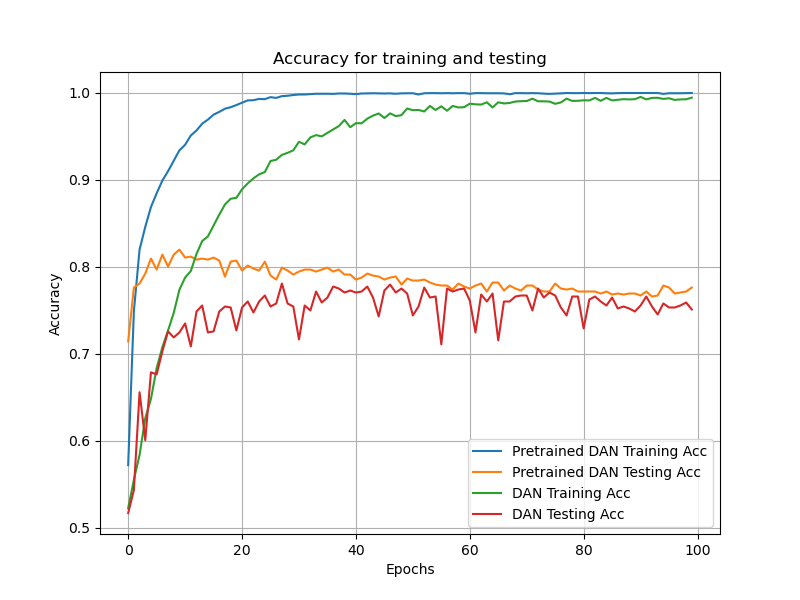
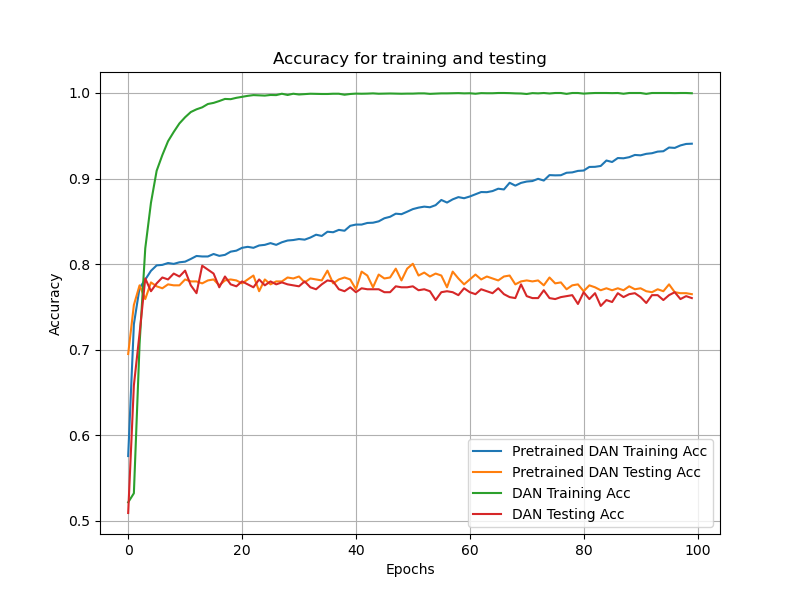
implemented basic features

diff --git a/CSE256_PA1_FA24/main.py b/CSE256_PA1_FA24/main.py
@@ -69,17 +69,22 @@ def experiment(model, train_loader, test_loader):
 
     all_train_accuracy = []
     all_test_accuracy = []
+    all_train_loss = []
+    all_test_loss = []
     for epoch in range(100):
         train_accuracy, train_loss = train_epoch(train_loader, model, loss_fn, optimizer)
         all_train_accuracy.append(train_accuracy)
+        all_train_loss.append(train_loss)
+
 
         test_accuracy, test_loss = eval_epoch(test_loader, model, loss_fn, optimizer)
         all_test_accuracy.append(test_accuracy)
+        all_test_loss.append(test_loss)
 
         if epoch % 10 == 9:
             print(f'Epoch #{epoch + 1}: train accuracy {train_accuracy:.3f}, dev accuracy {test_accuracy:.3f}')
     
-    return all_train_accuracy, all_test_accuracy
+    return all_train_accuracy, all_test_accuracy, all_train_loss, all_test_loss
 
 
 def main():
@@ -105,11 +110,11 @@ def main():
         # Train and evaluate NN2
         start_time = time.time()
         print('\n2 layers:')
-        nn2_train_accuracy, nn2_test_accuracy = experiment(NN2BOW(input_size=512, hidden_size=100), train_loader, test_loader)
+        nn2_train_accuracy, nn2_test_accuracy, nn2_train_loss, nn2_test_loss = experiment(NN2BOW(input_size=512, hidden_size=100), train_loader, test_loader)
 
         # Train and evaluate NN3
         print('\n3 layers:')
-        nn3_train_accuracy, nn3_test_accuracy = experiment(NN3BOW(input_size=512, hidden_size=100), train_loader, test_loader)
+        nn3_train_accuracy, nn3_test_accuracy, nn3_train_loss, nn3_test_loss = experiment(NN3BOW(input_size=512, hidden_size=100), train_loader, test_loader)
 
         # Plot the training accuracy
         plt.figure(figsize=(8, 6))
@@ -163,19 +168,19 @@ def main():
         # Train and evaluate pretrained DAN
         start_time = time.time()
         print("Pretrained DAN :")
-        Pretrain_DAN_train_accuracy, Pretrain_DAN_test_accuracy = experiment(DAN(embed_size=300, hidden_size=100, word_embed=word_embeddings, frozen=False), train_loader, test_loader)
+        pre_DAN_train_accuracy, pre_DAN_test_accuracy, pre_DAN_train_loss, pre_DAN_test_loss = experiment(DAN(embed_size=300, hidden_size=100, word_embed=word_embeddings, frozen=True), train_loader, test_loader)
         print(f"Finished training in : {time.time() - start_time} seconds")
 
         ###### Randomly initialized embeddings ######
         print("DAN")
         start_time = time.time()
-        DAN_train_accuracy, DAN_test_accuracy = experiment(DAN(embed_size=300, hidden_size=100, vocab_size=word_embeddings.word_indexer.__len__()), train_loader, test_loader)
+        DAN_train_accuracy, DAN_test_accuracy, rand_DAN_train_loss, rand_DAN_test_loss = experiment(DAN(embed_size=300, hidden_size=100, vocab_size=word_embeddings.word_indexer.__len__()), train_loader, test_loader)
         print(f"Finished training in : {time.time() - start_time} seconds")
 
         # Plot the training and testing accuracy
         plt.figure(figsize=(8, 6))
-        plt.plot(Pretrain_DAN_train_accuracy, label='Pretrained DAN Training Acc')
-        plt.plot(Pretrain_DAN_test_accuracy, label='Pretrained DAN Testing Acc')
+        plt.plot(pre_DAN_train_accuracy, label='Pretrained DAN Training Acc')
+        plt.plot(pre_DAN_test_accuracy, label='Pretrained DAN Testing Acc')
         plt.plot(DAN_train_accuracy, label='DAN Training Acc')
         plt.plot(DAN_test_accuracy, label='DAN Testing Acc')
         plt.xlabel('Epochs')
@@ -184,11 +189,27 @@ def main():
         plt.legend()
         plt.grid()
 
-        # Save the testing accuracy figure
+        # Save the accuracy figure
         dan_accuracy_file = 'dan_accuracy.png'
         plt.savefig(dan_accuracy_file)
         print(f"DAN accuracy plot saved as {dan_accuracy_file}\n\n")
 
+        # Plot the training and testing loss
+        plt.figure(figsize=(8, 6))
+        plt.plot(pre_DAN_train_loss, label='Pretrained DAN Training Loss')
+        plt.plot(pre_DAN_test_loss, label='Pretrained DAN Testing Loss')
+        plt.plot(rand_DAN_train_loss, label='DAN Training Loss')
+        plt.plot(rand_DAN_test_loss, label='DAN Testing Loss')
+        plt.xlabel('Epochs')
+        plt.ylabel('Loss')
+        plt.title('Loss for training and testing')
+        plt.legend()
+        plt.grid()
+
+        # Save the loss figure
+        dan_loss_file = 'dan_loss.png'
+        plt.savefig(dan_loss_file)
+        print(f"DAN loss plot saved as {dan_loss_file}\n\n")
 
 if __name__ == "__main__":
     main()

diff --git a/CSE256_PA1_FA24/DANmodels.py b/CSE256_PA1_FA24/DANmodels.py
@@ -6,6 +6,7 @@ import torch.nn.functional as F
 from sentiment_data import read_sentiment_examples
 from torch.utils.data import Dataset
 from torch.nn.utils.rnn import pad_sequence
+import torch.nn.init as init
 from utils import *
 
 class SentimentDatasetDAN(Dataset):
@@ -16,7 +17,7 @@ class SentimentDatasetDAN(Dataset):
         self.indices = [torch.tensor([self.word_embed.word_indexer.index_of(w) if self.word_embed.word_indexer.index_of(w) != -1 
                                       else self.word_embed.word_indexer.index_of("UNK")
                                       for w in ex.words], dtype=torch.long) for ex in self.examples]
-
+        
     def __len__(self):
         return len(self.examples)
     
@@ -40,6 +41,8 @@ class DAN(nn.Module):
         else:
             # Initialization without pretrained
             self.embeddings = nn.Embedding(num_embeddings=vocab_size, embedding_dim=embed_size)
+            init.kaiming_uniform_(self.embeddings.weight)
+
 
         self.fc1 = nn.Linear(embed_size, hidden_size)
         self.fc2 = nn.Linear(hidden_size, hidden_size)
@@ -48,6 +51,7 @@ class DAN(nn.Module):
 
     def forward(self, x):
         x = self.embeddings(x)
+        # x = F.relu(x)
         x = x.mean(dim=1)  # Average embeddings to get a fixed-size vector
         x = F.relu(self.fc1(x))
         x = F.relu(self.fc2(x))
